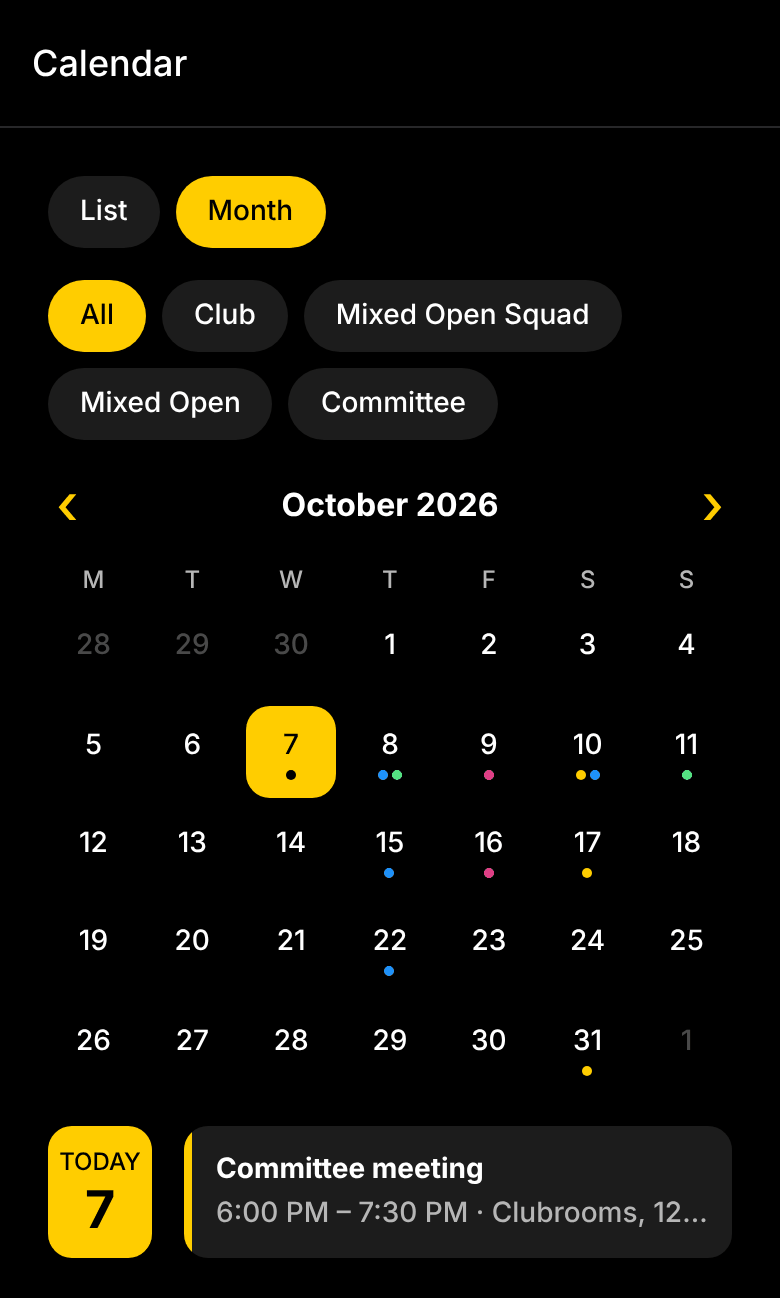
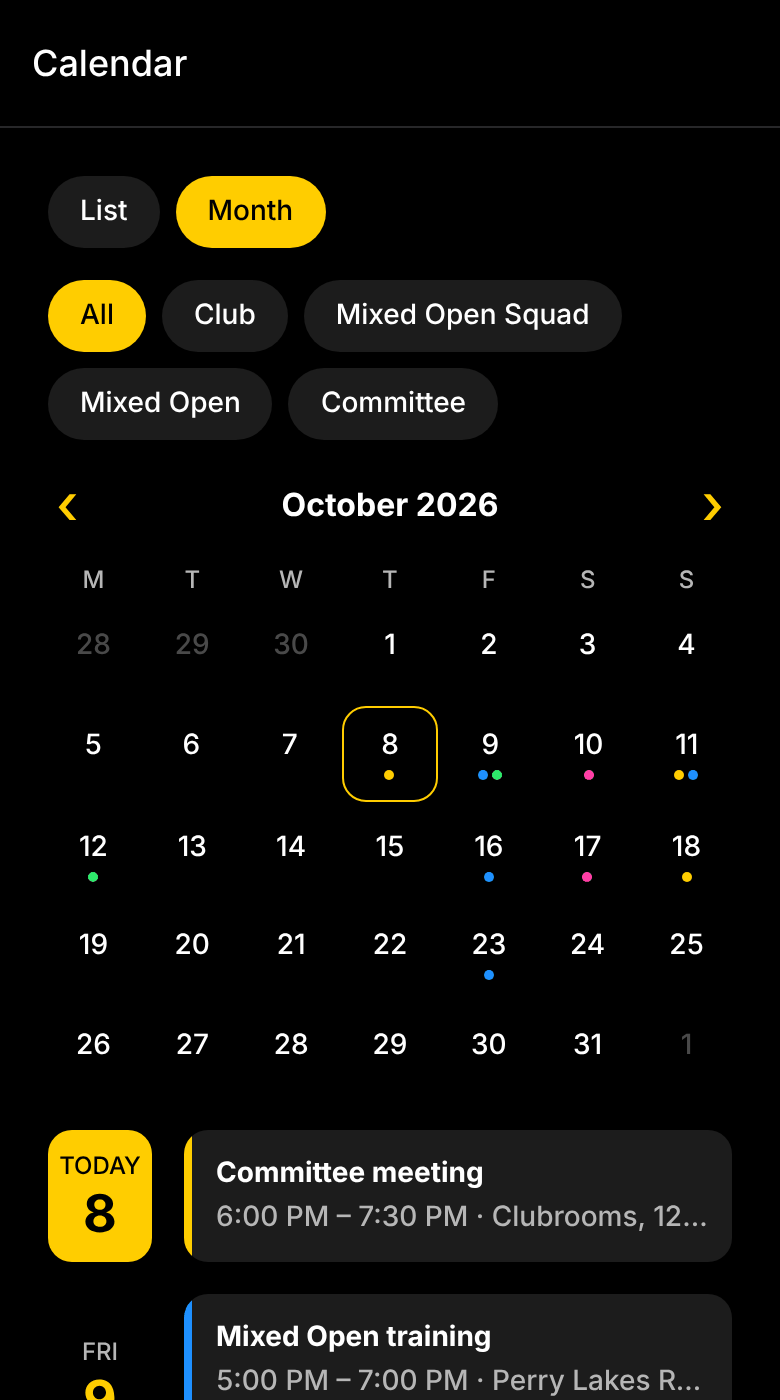
Calendar: month view shows only that month, and List keeps the month
Month view lists the whole month's events below the grid, or the tapped day's.
Days from neighbouring months are greyed out with no dots and can't be tapped.
Switching from Month to List starts the list at the month being viewed, and
the list now starts at whatever week the strip moves to.

Claude-Session: https://claude.ai/code/session_01UsUyUSgQANy8WsrsoVGwgh

diff --git a/src/app/calendar.tsx b/src/app/calendar.tsx
@@ -9,7 +9,15 @@ import { Button, ChipGroup, ErrorText } from '@/components/ui';
 import { WeekStrip } from '@/components/week-strip';
 import { Spacing } from '@/constants/theme';
 import type { CalendarEvent } from '@/lib/calendar';
-import { addDays, dayKey, formatDay, startOfDay, startOfWeek } from '@/lib/format';
+import {
+  addDays,
+  dayKey,
+  formatDay,
+  formatMonth,
+  monthKey,
+  startOfDay,
+  startOfWeek,
+} from '@/lib/format';
 import { earliestDay, latestDay, useEvents } from '@/lib/use-events';
 
 type CalendarView = 'list' | 'month';
@@ -42,8 +50,13 @@ export default function CalendarScreen() {
   const [view, setView] = useState<CalendarView>('list');
   const [filter, setFilter] = useState(ALL);
   const [weekStart, setWeekStart] = useState(() => startOfWeek(new Date()));
+  // Where the list starts when it isn't today: the week the strip moved to, or
+  // the month that was open in month view.
+  const [listStart, setListStart] = useState<Date | null>(null);
   const [month, setMonth] = useState(() => new Date());
   const [selectedDay, setSelectedDay] = useState<string | null>(() => dayKey(new Date()));
+  // The day tapped in month view, or null to show the whole month.
+  const [monthDay, setMonthDay] = useState<string | null>(null);
   // Where each day starts in the list, reported as rows are laid out.
   const [dayY] = useState(() => new Map<string, number>());
 
@@ -65,6 +78,22 @@ export default function CalendarScreen() {
       onPress={() => showMonthsAhead(monthsAhead + LOAD_MORE_MONTHS)}
     />
   );
+
+  /** Changes view, keeping the month or week being looked at. */
+  function switchView(next: CalendarView) {
+    if (next === view) return;
+    if (next === 'list') {
+      const first = new Date(month.getFullYear(), month.getMonth(), 1);
+      const thisMonth = monthKey(month) === monthKey(new Date());
+      setWeekStart(startOfWeek(thisMonth ? new Date() : first));
+      setListStart(thisMonth ? null : first);
+      setSelectedDay(dayKey(thisMonth ? new Date() : first));
+    } else {
+      setMonth(listStart ?? new Date());
+      setMonthDay(null);
+    }
+    setView(next);
+  }
 
   async function onRefresh() {
     setRefreshing(true);
@@ -115,7 +144,7 @@ export default function CalendarScreen() {
         { value: 'month', label: 'Month' },
       ]}
       selected={[view]}
-      onToggle={(v: CalendarView) => setView(v)}
+      onToggle={switchView}
     />,
     calendars.length > 0 ? (
       <ChipGroup
@@ -140,35 +169,53 @@ export default function CalendarScreen() {
   }
 
   if (view === 'month') {
-    const dayEvents = filtered.filter((e) => dayKey(e.start) === selectedDay);
+    // Only this month's events: the whole month, or the day tapped.
+    const monthEvents = filtered.filter((e) => monthKey(e.start) === monthKey(month));
+    const shown = monthDay
+      ? monthEvents.filter((e) => dayKey(e.start) === monthDay)
+      : monthEvents;
     return (
       <Screen refreshing={refreshing} onRefresh={onRefresh} gap={Spacing.three}>
         {top}
         <MonthGrid
           month={month}
           eventDays={eventDays}
-          selectedDay={selectedDay}
-          onSelect={(date) => setSelectedDay(dayKey(date))}
+          selectedDay={monthDay}
+          onSelect={(date) => setMonthDay(monthDay === dayKey(date) ? null : dayKey(date))}
           earliest={earliest}
           latest={latest}
           onChangeMonth={(next) => {
             setMonth(next);
+            setMonthDay(null);
             loadThrough(next);
           }}
         />
-        {dayEvents.length > 0 ? (
-          dayEvents.map((event, i) => <AgendaRow key={event.id} event={event} showDate={i === 0} />)
+        {shown.length > 0 ? (
+          shown.map((event, i) => (
+            <AgendaRow
+              key={event.id}
+              event={event}
+              showDate={i === 0 || dayKey(event.start) !== dayKey(shown[i - 1].start)}
+            />
+          ))
         ) : (
           <ThemedText type="small" themeColor="textSecondary">
-            Nothing on this day.
+            {monthDay ? 'Nothing on this day.' : `Nothing on in ${formatMonth(month)}.`}
           </ThemedText>
         )}
+        {monthDay ? (
+          <Button
+            title={`Show all of ${formatMonth(month)}`}
+            variant="secondary"
+            onPress={() => setMonthDay(null)}
+          />
+        ) : null}
       </Screen>
     );
   }
 
-  // The list starts today, or earlier once the week strip steps back a week.
-  const listFrom = weekStart < startOfWeek(new Date()) ? weekStart : startOfDay(new Date());
+  // The list starts today, or at the week or month being looked at.
+  const listFrom = listStart ?? startOfDay(new Date());
   const listed = filtered.filter((event) => event.end > listFrom || event.start >= listFrom);
   const listTop = [
     ...top,
@@ -182,6 +229,7 @@ export default function CalendarScreen() {
       latest={latest}
       onChangeWeek={(next) => {
         setWeekStart(next);
+        setListStart(dayKey(next) === dayKey(startOfWeek(new Date())) ? null : next);
         // Stepping back needs the week's first day, stepping ahead its last.
         loadThrough(next < weekStart ? next : addDays(next, 6));
       }}

diff --git a/src/components/month-grid.tsx b/src/components/month-grid.tsx
@@ -8,7 +8,11 @@ import { addDays, dayKey, formatMonth, isToday, startOfWeek } from '@/lib/format
 
 const WEEKDAYS = ['M', 'T', 'W', 'T', 'F', 'S', 'S'];
 
-/** A classic month calendar with coloured dots under days that have events. */
+/**
+ * A classic month calendar with coloured dots under days that have events.
+ * Days from the months either side are greyed out, with no dots, and can't be
+ * tapped, so only the month being viewed shows events.
+ */
 export function MonthGrid({
   month,
   eventDays,
@@ -78,8 +82,9 @@ export function MonthGrid({
               <Pressable
                 key={key}
                 accessibilityRole="button"
-                accessibilityState={{ selected }}
+                accessibilityState={{ selected, disabled: !inMonth }}
                 accessibilityLabel={date.toDateString()}
+                disabled={!inMonth}
                 onPress={() => onSelect(date)}
                 style={[
                   styles.cell,
@@ -92,7 +97,7 @@ export function MonthGrid({
                   style={[!inMonth && styles.outside, selected && styles.onAccent]}>
                   {date.getDate()}
                 </ThemedText>
-                <DayDots colors={eventDays.get(key)} selected={selected} />
+                <DayDots colors={inMonth ? eventDays.get(key) : undefined} selected={selected} />
               </Pressable>
             );
           })}

diff --git a/docs/user-guide.md b/docs/user-guide.md
@@ -170,10 +170,13 @@ calendars of the squads and teams you belong to. Committee members and admins al
 committee calendar.
 
 - **List** shows a week strip and the events after it, grouped by day. Use the arrows to move
-  between weeks, and **Load more** at the bottom to see further ahead. Step back a week to see past
-  events from that week on.
-- **Month** shows a month grid. Dots under a day are events, coloured by calendar. Tap a day to see
-  its events.
+  between weeks, and **Load more** at the bottom to see further ahead. The list starts today, or at
+  the week you move to.
+- **Month** shows a month grid with that month's events below it. Dots under a day are events,
+  coloured by calendar. Tap a day to see only its events, and tap it again (or **Show all of** the
+  month) to see the whole month. Days from the months either side are greyed out.
+- Switching from **Month** to **List** keeps the month you were looking at: the list starts at the
+  1st of that month (or today, for this month).
 - You can look back 12 months (to the start of that month) and ahead 12 months. The arrow fades
   out when you reach either end.
 - The chips (**All**, **Club**, your squads and teams) filter which calendars are shown.
